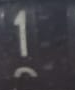
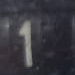
completed

diff --git a/check2.py b/check2.py
@@ -15,7 +15,7 @@ def digit_recognition():
         #Capture 2 100 resize 
         #Capture 100 resize 
         #gas_meter 220 resize
-        img=cv.resize(img,(200,200),cv.INTER_AREA)
+        img=cv.resize(img,(180,180),cv.INTER_AREA)
         cv.imshow("image",img)
         output=reader.readtext(img,allowlist="0123456789")
         k=0
@@ -46,7 +46,8 @@ def digit_extraction():
     #Capture x=0 w=17 y=0 h=15
     #meter.jpg x=2 w=30 y=9 h=25
     #gas_mter.jpeg x=0 w=75 #y=9 #h=100
-    #gas_meter1.jpeg x=0 w=60 #y=9 #h=100
+    #gas_meter1.jpeg x=0 w=60 #y=0 #h=100
+    #gas_meter_2.jpeg x=0 w=60 #y=0 #h=100
 
 
 
@@ -60,8 +61,10 @@ def digit_extraction():
     digit_recognition()  
 
 def image_crop():
-    img=cv.imread("gas_mter.jpeg")
-    img=img[360:450,220:1000]
+    img=cv.imread("gas_meter_2.jpeg")
+    img=img[365:440,237:834]
+    #img=cv.imread("gas_mter.jpeg")
+    #img=img[360:450,220:1000]
     plt.imshow(img)
     plt.show()
     cv.waitKey(0)
@@ -74,10 +77,11 @@ def image_crop():
     #img=img[90:130,25:175]
     #img=img[350:450,220:1000] gas_meter.jpeg
     #gas_meter1 img=img[360:450,220:1000]
+    #gas_meter_2 img=img[359:468,237:834]
     cv.imwrite('meter_image.png', img)
     digit_extraction()
     
 if __name__=="__main__":
     image_crop()
-    with open('data.txt', 'w') as f:
+    with open('data.txt', 'a') as f:
         f.write(str(final_digits))

diff --git a/firebase.py b/firebase.py
@@ -1,0 +1,15 @@
+import pyrebase
+import os
+config={
+    "apiKey": "AIzaSyAF-yR-zkh5M2SqayH4Iqa1Ncd4YOcG6bY",
+    "authDomain": "meter-reading-c15ae.firebaseapp.com",
+    "databaseURL": "https://meter-reading-c15ae-default-rtdb.firebaseio.com",
+    "projectId": "meter-reading-c15ae",
+    "storageBucket": "meter-reading-c15ae.appspot.com",
+    "messagingSenderId": "832226172295",
+    "appId": "1:832226172295:web:1c3588d6590ae357240722",
+    "measurementId": "G-6TM2L3J7K2"
+}
+firebase=pyrebase.initialize_app(config)
+storage=firebase.storage()
+storage.child("meter.jpg").download(filename="meter1.jpg",path=os.path.basename("meter1.jpg"))

diff --git a/lcd.py b/lcd.py
@@ -1,8 +1,7 @@
 import cv2 as cv
 import matplotlib.pyplot as plt
-img=cv.imread("gas_meter1.jpeg")
-
-img=img[331:421,200:720]
+img=cv.imread("gas_meter_2.jpeg")
+img=img[359:468,237:834]
 plt.imshow(img)
 x=0
 w=60
